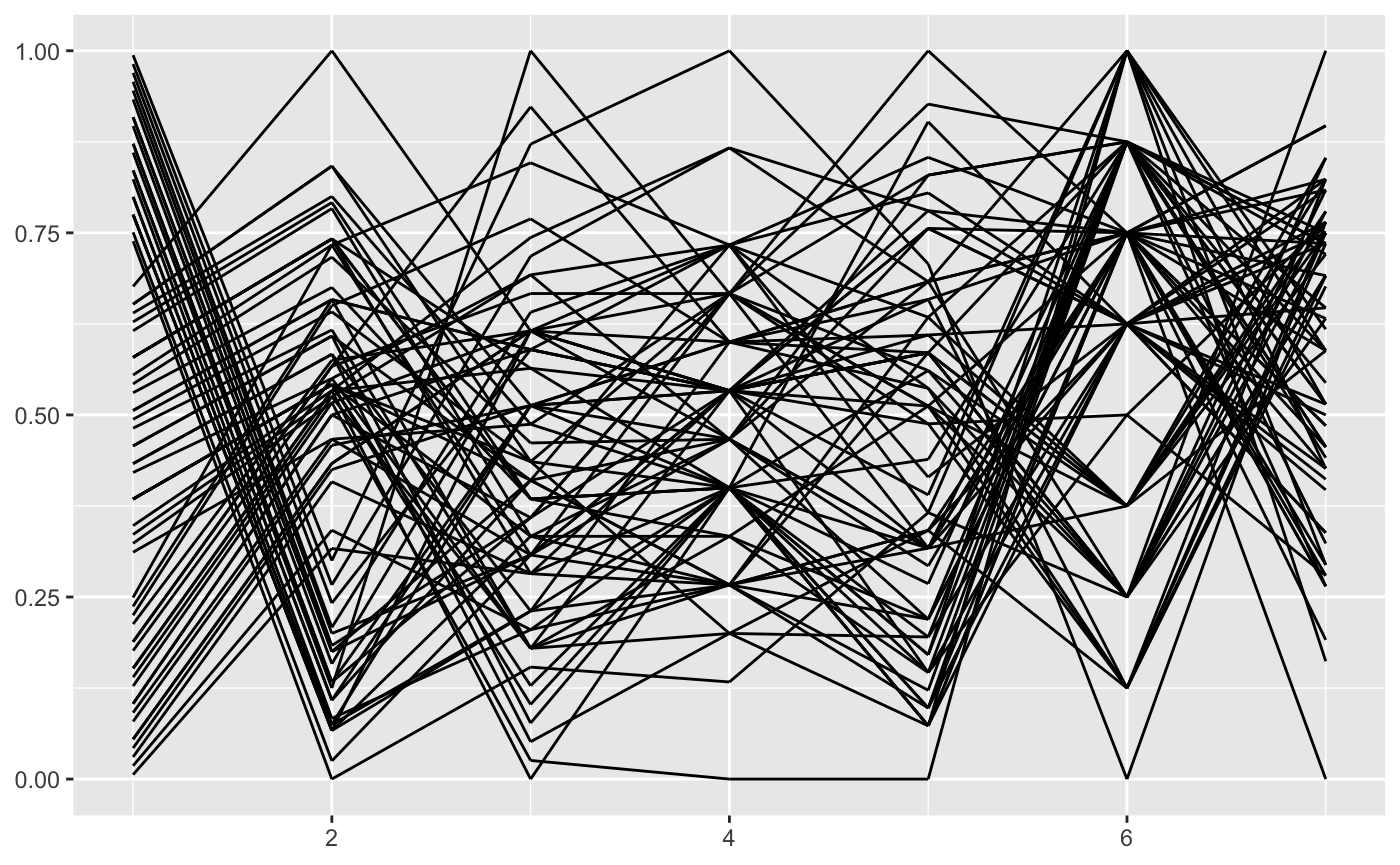
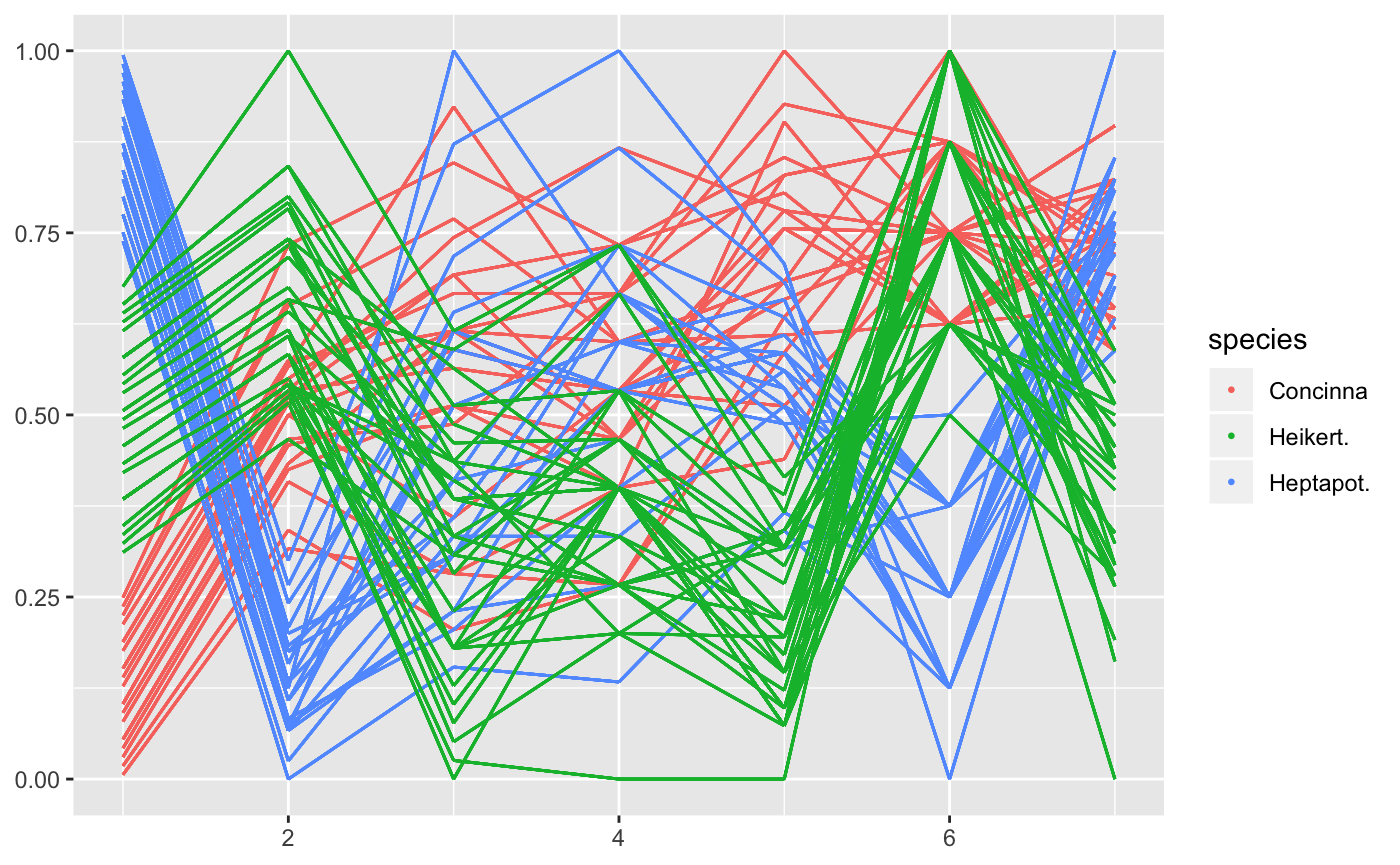
we got color!

diff --git a/docs/index.html b/docs/index.html
@@ -87,9 +87,17 @@
 <a class="sourceLine" id="cb3-6" title="6"><span class="st">  </span><span class="kw">group_by</span>(name) <span class="op">%&gt;%</span><span class="st">  </span><span class="co"># should go into transformation</span></a>
 <a class="sourceLine" id="cb3-7" title="7"><span class="st">  </span><span class="kw">mutate</span>(<span class="dt">value =</span> (level<span class="op">-</span><span class="kw"><a href="https://www.rdocumentation.org/packages/base/topics/Extremes">min</a></span>(level))<span class="op">/</span>(<span class="kw"><a href="https://www.rdocumentation.org/packages/base/topics/Extremes">max</a></span>(level)<span class="op">-</span><span class="kw"><a href="https://www.rdocumentation.org/packages/base/topics/Extremes">min</a></span>(level))) <span class="op">%&gt;%</span></a>
 <a class="sourceLine" id="cb3-8" title="8"><span class="st">  </span><span class="kw">ggplot</span>(<span class="kw">aes</span>(<span class="dt">id =</span> id, <span class="dt">name =</span> name, <span class="dt">value =</span> value, <span class="dt">level =</span> level, <span class="dt">class =</span> class)) <span class="op">+</span></a>
-<a class="sourceLine" id="cb3-9" title="9"><span class="st">  </span><span class="kw"><a href="reference/geom_pcp.html">geom_pcp</a></span>() <span class="co"># adding colour is possible once gather_pcp does not delete original data</span></a></code></pre></div>
+<a class="sourceLine" id="cb3-9" title="9"><span class="st">  </span><span class="kw"><a href="reference/geom_pcp.html">geom_pcp</a></span>(<span class="kw">aes</span>(<span class="dt">colour=</span>species)) </a></code></pre></div>
 <p><img src="index_files/figure-html/unnamed-chunk-3-1.png" width="700"></p>
-<div class="sourceCode" id="cb4"><pre class="sourceCode r"><code class="sourceCode r"><a class="sourceLine" id="cb4-1" title="1"><span class="co">#  geom_pcp(aes(colour=species)) </span></a></code></pre></div>
+<div class="sourceCode" id="cb4"><pre class="sourceCode r"><code class="sourceCode r"><a class="sourceLine" id="cb4-1" title="1">flea <span class="op">%&gt;%</span><span class="st"> </span></a>
+<a class="sourceLine" id="cb4-2" title="2"><span class="st">  </span><span class="kw">mutate</span>(<span class="dt">species =</span> <span class="kw"><a href="https://www.rdocumentation.org/packages/base/topics/factor">factor</a></span>(species, <span class="dt">levels =</span> <span class="kw"><a href="https://www.rdocumentation.org/packages/base/topics/c">c</a></span>(<span class="st">"Heptapot."</span>,  <span class="st">"Concinna"</span>, <span class="st">"Heikert."</span>))) <span class="op">%&gt;%</span></a>
+<a class="sourceLine" id="cb4-3" title="3"><span class="st">  </span><span class="kw"><a href="reference/gather_pcp.html">gather_pcp</a></span>(<span class="dv">1</span><span class="op">:</span><span class="dv">7</span>) <span class="op">%&gt;%</span></a>
+<a class="sourceLine" id="cb4-4" title="4"><span class="st">  </span><span class="kw">group_by</span>(name) <span class="op">%&gt;%</span><span class="st">  </span><span class="co"># should go into transformation</span></a>
+<a class="sourceLine" id="cb4-5" title="5"><span class="st">  </span><span class="kw">mutate</span>(<span class="dt">value =</span> (level<span class="op">-</span><span class="kw"><a href="https://www.rdocumentation.org/packages/base/topics/Extremes">min</a></span>(level))<span class="op">/</span>(<span class="kw"><a href="https://www.rdocumentation.org/packages/base/topics/Extremes">max</a></span>(level)<span class="op">-</span><span class="kw"><a href="https://www.rdocumentation.org/packages/base/topics/Extremes">min</a></span>(level))) <span class="op">%&gt;%</span></a>
+<a class="sourceLine" id="cb4-6" title="6"><span class="st">  </span><span class="kw">ggplot</span>(<span class="kw">aes</span>(<span class="dt">id =</span> id, <span class="dt">name =</span> name, <span class="dt">value =</span> value, <span class="dt">level =</span> level, <span class="dt">class =</span> class)) <span class="op">+</span></a>
+<a class="sourceLine" id="cb4-7" title="7"><span class="st">  </span><span class="kw"><a href="reference/geom_pcp_box.html">geom_pcp_box</a></span>(<span class="dt">boxwidth =</span> <span class="fl">0.1</span>, <span class="dt">fill=</span><span class="st">"grey50"</span>) <span class="op">+</span></a>
+<a class="sourceLine" id="cb4-8" title="8"><span class="st">  </span><span class="kw"><a href="reference/geom_pcp.html">geom_pcp</a></span>(<span class="kw">aes</span>(<span class="dt">colour=</span>species), <span class="dt">boxwidth =</span> <span class="fl">0.1</span>) </a></code></pre></div>
+<p><img src="index_files/figure-html/unnamed-chunk-4-1.png" width="700"></p>
 </div>
 <div id="related-work" class="section level1">
 <h1 class="hasAnchor">

diff --git a/README.md b/README.md
@@ -1,7 +1,7 @@
 ---
 title: "ggpcp"
 author: "Yawei Ge, Heike Hofmann"
-date: "July 02, 2019"
+date: "July 03, 2019"
 output: 
   html_document:
     keep_md: true
